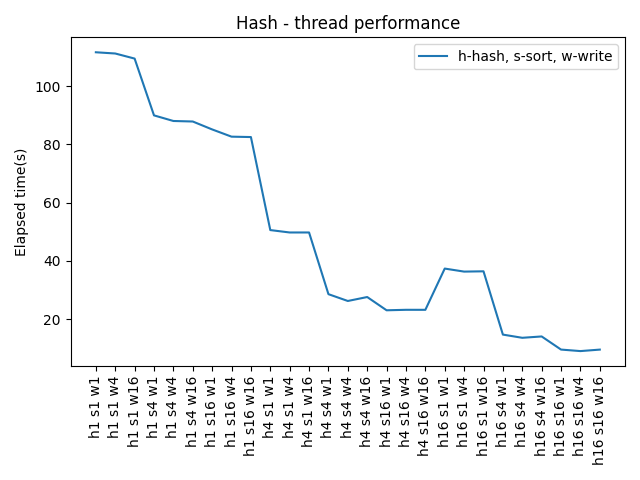
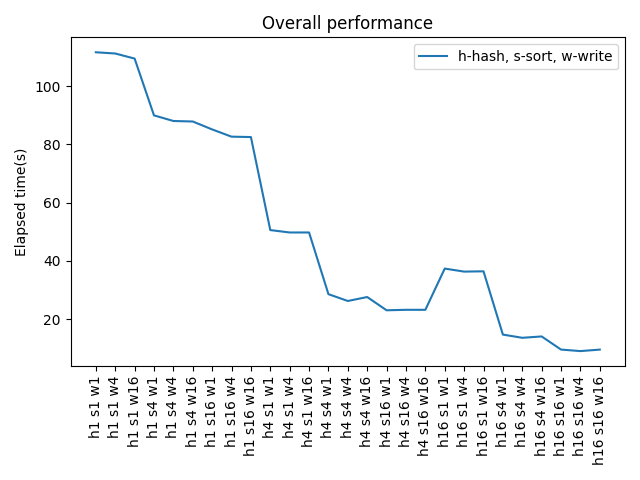
sd

Changed region(s): [[0.3438, 0.0312, 0.7188, 0.0625]]

diff --git a/c/plot.py b/c/plot.py
@@ -83,7 +83,7 @@ def plot_data():
 
     fig, axs = plt.subplots(1)
     axs.plot(xss, res, label="h-hash, s-sort, w-write")
-    axs.set_title('Hash - thread performance')
+    axs.set_title('Overall performance')
     axs.legend()
     axs.set_ylabel('Elapsed time(s)')
     plt.xticks(rotation=90)  # Direct rotation
